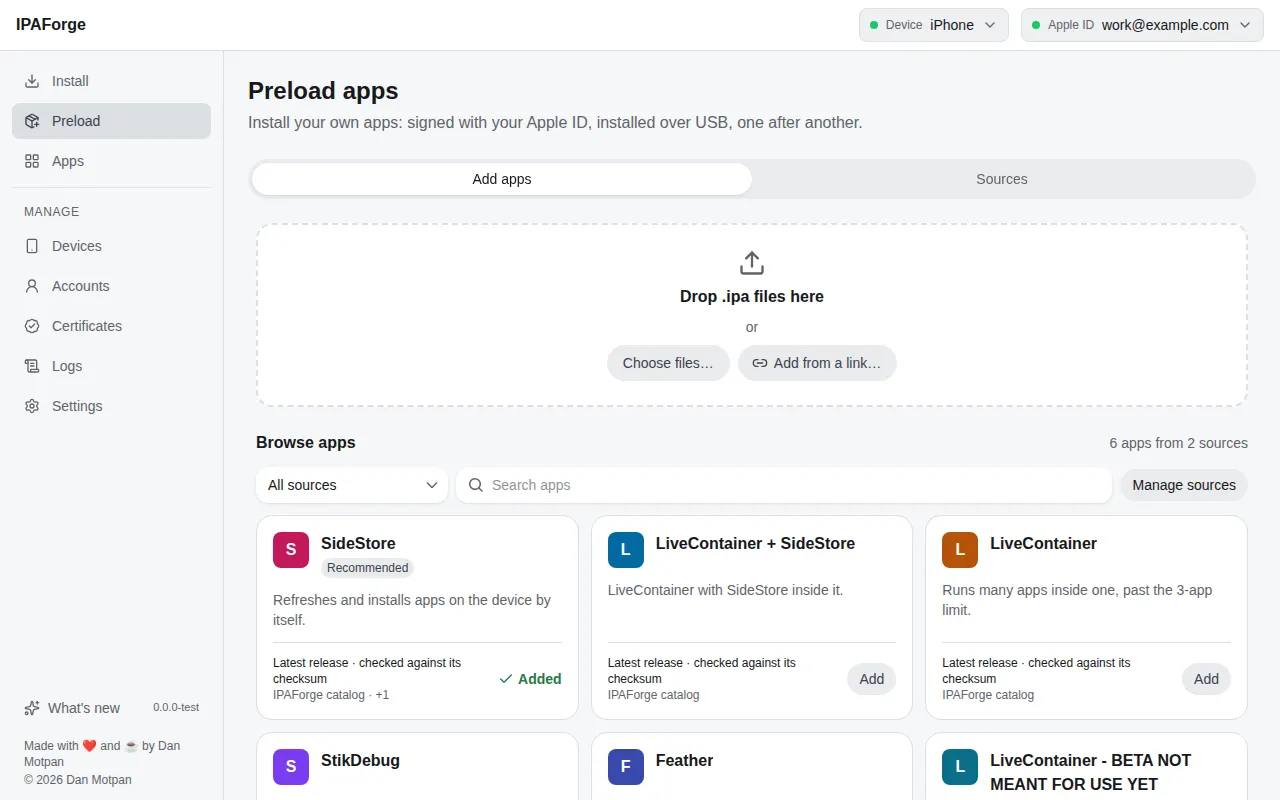
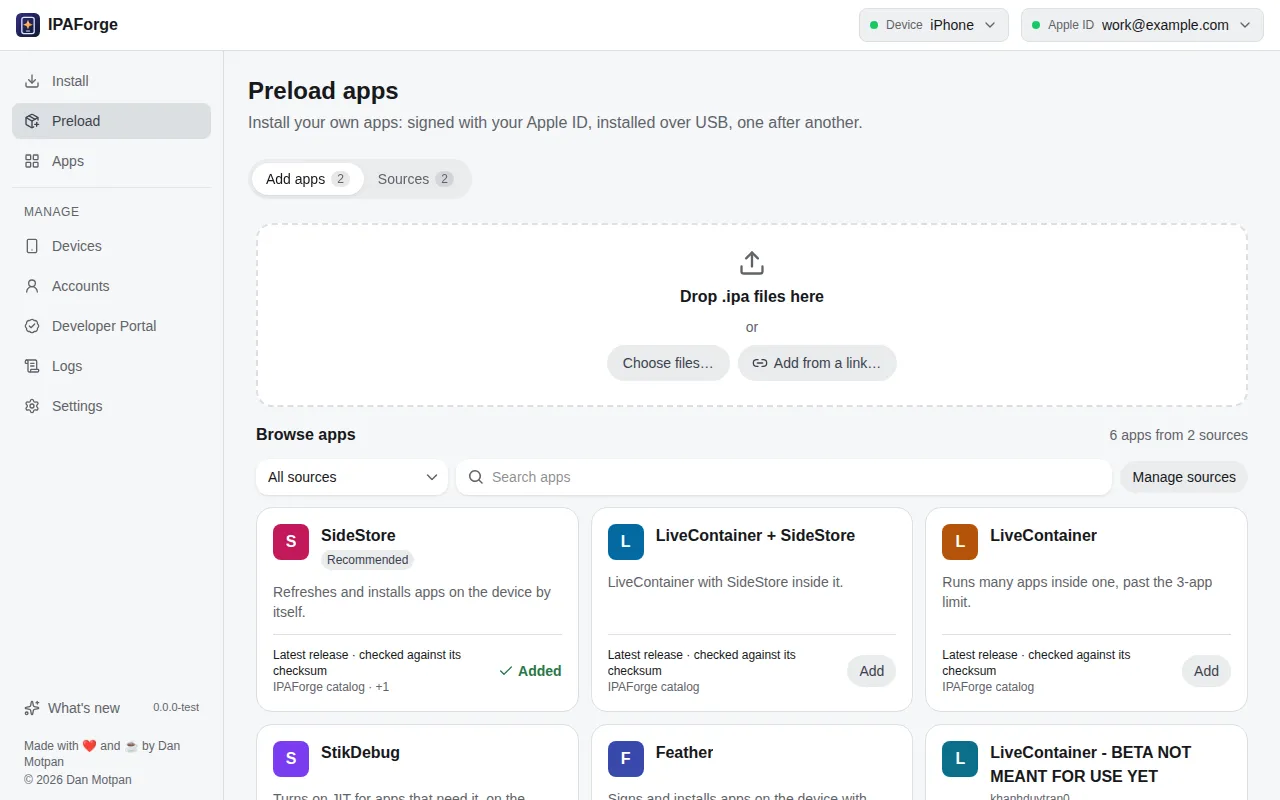
New screenshots and the Developer Portal; Management tools in progress
The app's sidebar now says Developer Portal instead of Certificates: every
screenshot is taken again from the app's reference screens, light and dark.
A Developer Portal tab joins the screens. The roadmap shows Management tools
in progress (the Developer Portal page is in), guided first run next, and
wireless pairing started (the remote pairing file for SideStore is in).

diff --git a/src/pages/home.html b/src/pages/home.html
@@ -20,6 +20,7 @@
         <button class="tab" role="tab" id="tab-install" aria-selected="true" data-shot="install-home">Install SideStore</button>
         <button class="tab" role="tab" id="tab-preload" aria-selected="false" data-shot="preload">Preload apps</button>
         <button class="tab" role="tab" id="tab-apps" aria-selected="false" data-shot="apps">Your apps</button>
+        <button class="tab" role="tab" id="tab-developer" aria-selected="false" data-shot="developer">Developer Portal</button>
         <button class="tab" role="tab" id="tab-repair" aria-selected="false" data-shot="repair">Repair SideStore</button>
         <button class="tab" role="tab" id="tab-devices" aria-selected="false" data-shot="devices">Device checklist</button>
         <button class="tab" role="tab" id="tab-qr" aria-selected="false" data-shot="sidestore-qr">QR codes</button>
@@ -120,9 +121,9 @@ $ cosign verify-blob \
         <div class="phase"><span class="pn">0–6</span><div><h3>The engine and the app</h3><p>Signer, device layer, Apple sign-in, developer services, the installer and the interface.</p></div><span class="chip done">Done</span></div>
         <div class="phase"><span class="pn">8</span><div><h3>Install and preload</h3><p>One-click SideStore, app sources, the Apps page, Repair SideStore, QR codes, the checklist.</p></div><span class="chip done">Done</span></div>
         <div class="phase"><span class="pn">9</span><div><h3>Desktop app</h3><p>Installers for Windows, macOS and Linux, signed releases, and automatic updates.</p></div><span class="chip done">Done</span></div>
-        <div class="phase"><span class="pn">7</span><div><h3>Guided first run</h3><p>A step-by-step setup the first time you open IPAForge.</p></div><span class="chip next">Next</span></div>
-        <div class="phase"><span class="pn">10</span><div><h3>Management tools</h3><p>Certificates, App IDs, pairing files per app, and .p12 import and export.</p></div><span class="chip next">Planned</span></div>
-        <div class="phase"><span class="pn">11</span><div><h3>Wireless and remote pairing</h3><p>Pairing a new device over Wi-Fi, finding devices on your network, and the iOS 17+ remote pairing file for SideStore.</p></div><span class="chip next">Planned</span></div>
+        <div class="phase"><span class="pn">10</span><div><h3>Management tools</h3><p>The Developer Portal page: your team's certificates, App IDs, profiles, app groups and devices. Coming next: pairing files per app, .p12 import and export, and saving signed .ipa files.</p></div><span class="chip now">In progress</span></div>
+        <div class="phase"><span class="pn">7</span><div><h3>Guided first run</h3><p>A step-by-step setup the first time you open IPAForge, covering every part of the app.</p></div><span class="chip next">Next</span></div>
+        <div class="phase"><span class="pn">11</span><div><h3>Wireless and remote pairing</h3><p>The iOS 17+ remote pairing file for SideStore is in. Still to come: pairing a new device over Wi-Fi and finding devices on your network.</p></div><span class="chip next">Started</span></div>
         <div class="phase"><span class="pn">12</span><div><h3>1.0</h3><p>Windows code signing and Apple notarisation, a docs site, more languages and a security review.</p></div><span class="chip next">Planned</span></div>
       </div>
     </div>

diff --git a/assets/js/home.js b/assets/js/home.js
@@ -14,6 +14,10 @@
       alt: 'The Apps page listing installed apps with when each one expires.',
       caption: 'Every app you sideloaded and when it expires. Refresh, update or remove it, or let IPAForge refresh it by itself before it expires.'
     },
+    developer: {
+      alt: "The Developer Portal page: the team's certificates, with who made each and which apps on the iPhone it signs.",
+      caption: 'See what your Apple ID holds at Apple: certificates and the apps each one signs, App IDs and how many are left this week, the profiles on your iPhone, app groups and registered devices. Clean up what nothing uses.'
+    },
     repair: {
       alt: 'Repair SideStore checking SideStore line by line.',
       caption: 'Repair SideStore checks who signed it, its certificate, its pairing file and when it expires, then fixes what keeps it from refreshing by itself.'
